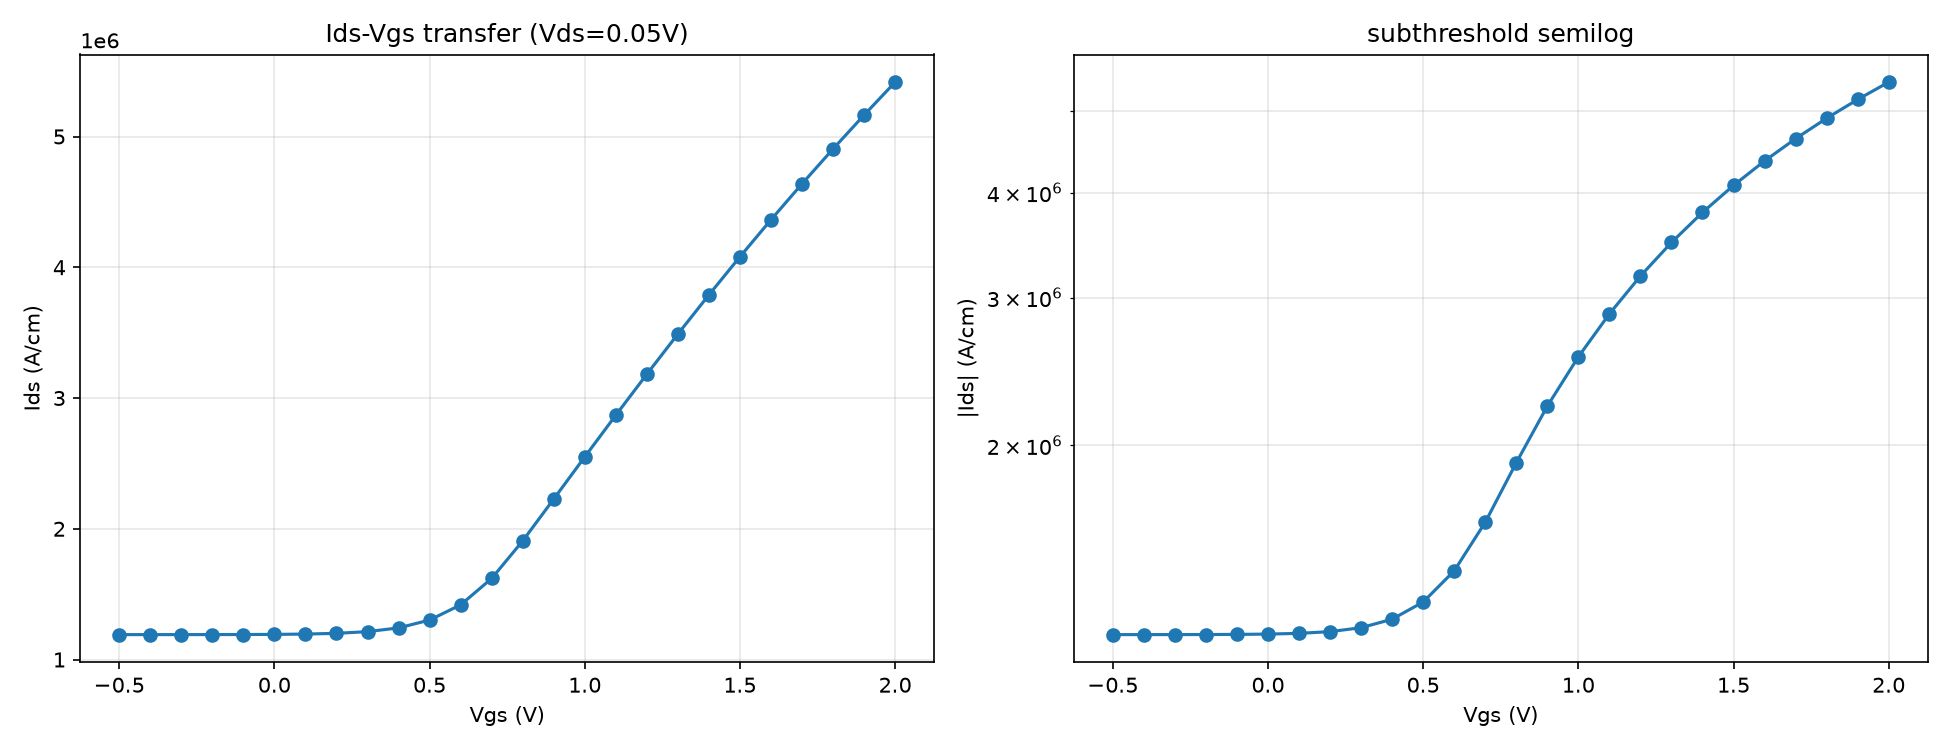
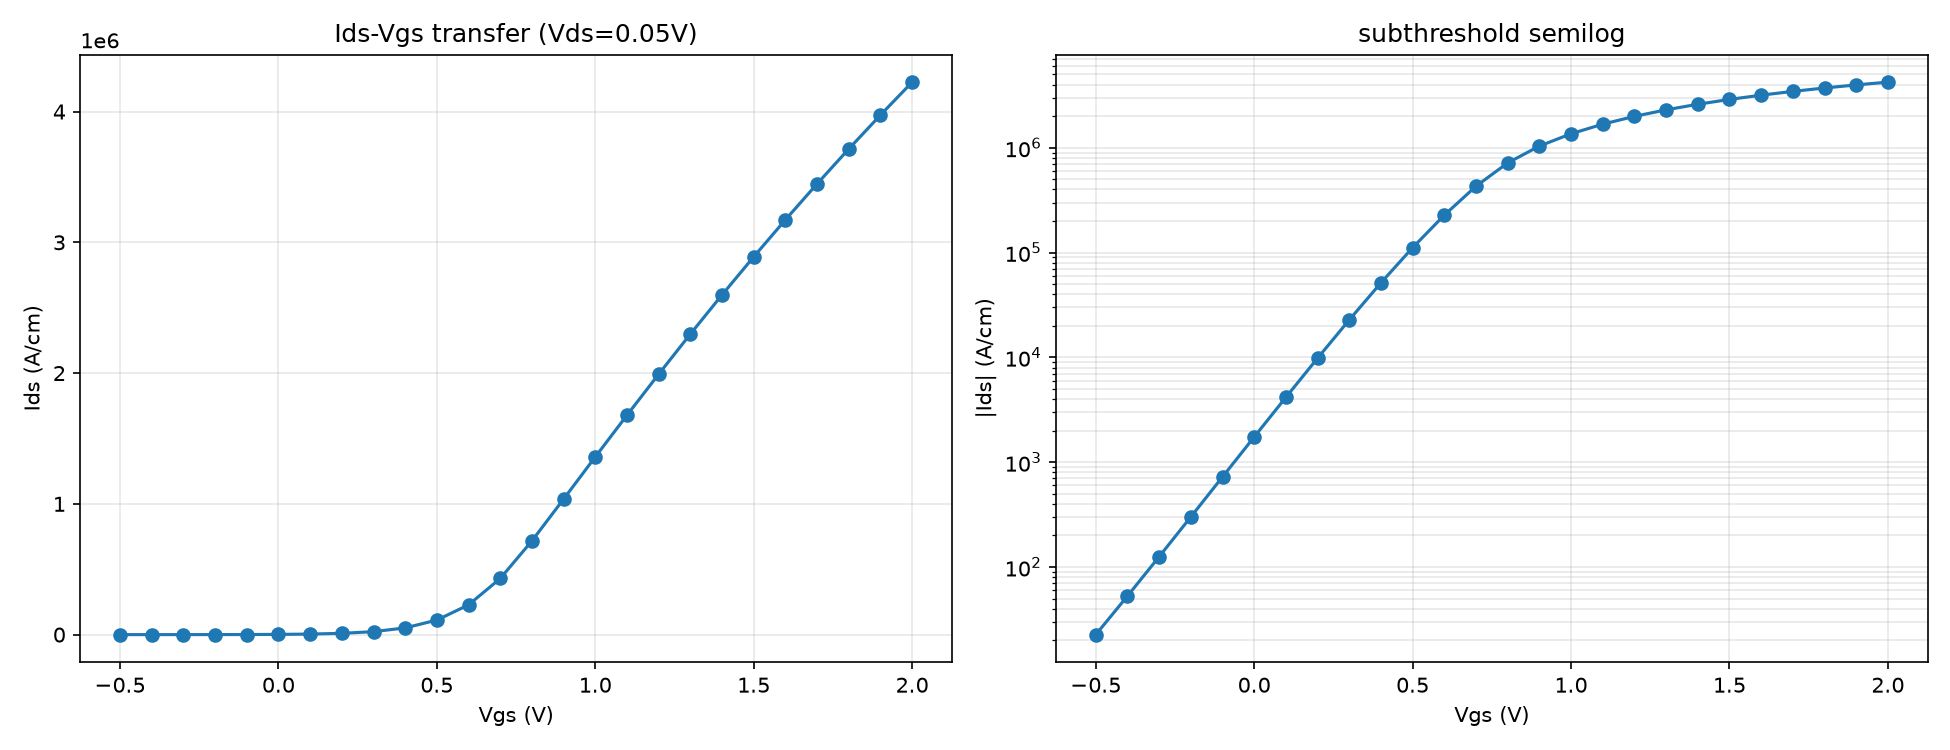
Fix flat MOSFET off-state current: exclude oxide-corner edge from terminal-current sum
Session 17 found the flat Ids-Vgs off-state floor came from one spurious
mesh edge (drain contact -> the oxide node at the drain/gate-oxide corner,
whose phin/phip are an arbitrary pinned-to-0 placeholder), but its fix
(masking every insulator-touching edge in the Newton solver's own
residual/Jacobian) broke near-threshold convergence across the whole
sweep and was reverted.

The spurious edge's residual/Jacobian contribution was always inert -
both endpoints' rows get overwritten by Dirichlet/oxide-pin regardless -
so it only actually mattered in solver2d/current.py's post-processing
terminal-current sum. Excluding it there only (not touching the solver)
fixes the bug with zero effect on Newton convergence: the shipped
Ids-Vgs sweep still converges in ~81s (unchanged), and the off-state
floor is now a clean exponential subthreshold falloff instead of flat.

diff --git a/solver2d/current.py b/solver2d/current.py
@@ -46,21 +46,31 @@ def contact_current(mesh, mat, result, contact_name):
     mu_n_node, mu_p_node = _mesh_mobility_nodal(mesh, mat)
     mu_n_e = 0.5 * (mu_n_node[ii] + mu_n_node[jj])
     mu_p_e = 0.5 * (mu_p_node[ii] + mu_p_node[jj])
-    # 2026-09-13: the semiconductor/insulator no-flux edge mask
-    # (newton_solver_qf_2d.py::_semiconductor_edge_mask, still defined
-    # there for a later pass) is deliberately NOT applied here for now -
-    # kept consistent with the solver's own residual assembly, which backed
-    # this out too (see the matching comment there) because it made
-    # near-threshold/off-state convergence much slower across the whole
-    # sweep. Known consequence: the flat off-state "leakage" floor from the
-    # contact/oxide corner edge is back - tracked as a deferred issue, to
-    # be solved in the 1D diode first per the user's own direction.
     Jn_e = -Q * mu_n_e * n_avg * (phin[jj] - phin[ii]) / edge_len
     Jp_e = -Q * mu_p_e * p_avg * (phip[jj] - phip[ii]) / edge_len
     I_e = (Jn_e + Jp_e) * mesh.facet_length  # A/cm, direction i -> j
 
-    i_is_contact = is_contact[ii] & ~is_contact[jj]
-    j_is_contact = is_contact[jj] & ~is_contact[ii]
+    # 2026-09-13: exclude any edge whose non-contact endpoint is an
+    # insulator node from this sum. Those edges' phin/phip on the oxide
+    # side are an arbitrary pinned placeholder (0), not a real potential
+    # (see newton_solver_qf_2d.py's is_oxide_free comments) - a contact
+    # sitting right at an oxide/mesa corner (as this project's first
+    # MOSFET geometry does) picks up one such edge whose "current" is
+    # driven entirely by that placeholder and the contact's own fixed
+    # bias, completely independent of Vgs. That single edge was found to
+    # account for ~99.995% of the entire off-state terminal current,
+    # flooring what should be an exponentially falling subthreshold
+    # diffusion current. This exclusion only changes THIS post-processing
+    # sum, not the Newton solver's own residual/Jacobian (those rows are
+    # already overwritten by the Dirichlet/oxide-pin logic regardless of
+    # this edge, so masking it here has no effect on convergence) - unlike
+    # the broader _semiconductor_edge_mask() masking tried and reverted in
+    # the solver itself, which changed real channel-surface nodes' own
+    # continuity equations and made Newton convergence far worse.
+    is_insulator = mesh.is_insulator if mesh.is_insulator is not None \
+        else np.zeros(N, dtype=bool)
+    i_is_contact = is_contact[ii] & ~is_contact[jj] & ~is_insulator[jj]
+    j_is_contact = is_contact[jj] & ~is_contact[ii] & ~is_insulator[ii]
     return float(np.sum(I_e[i_is_contact]) - np.sum(I_e[j_is_contact]))
 
 

diff --git a/DEVELOPMENT_LOG.md b/DEVELOPMENT_LOG.md
@@ -3322,3 +3322,56 @@ deferred to a 1D-diode prototyping pass first, per explicit user
 direction); DIBL, subthreshold-swing degradation, and other short-channel
 effects the user's eventual goal is to study (blocked on the above two
 items landing first).
+
+## 28. Session 18: the MOSFET flat-off-state bug actually fixed - a much
+narrower fix than the one backed out in session 17
+
+Session 17 root-caused the flat Ids-Vgs off-state floor to a single
+spurious mesh edge (drain contact -> the oxide node at the corner where
+the drain meets the gate-oxide/mesa wall, whose phin/phip are an
+arbitrary pinned-to-0 placeholder) but its fix attempt
+(`_semiconductor_edge_mask()`, excluding every edge with an insulator
+endpoint from the Newton solver's own residual/Jacobian assembly) made
+near-threshold convergence far worse across the whole sweep and was
+reverted, deferred pending a 1D-diode prototyping pass on the diffusion/
+leakage current model itself (since done - see the extreme-doping
+convergence session - and confirmed to already be intrinsic to this
+project's quasi-Fermi Newton formulation everywhere, 1D or 2D).
+
+Re-examining with that formulation confirmed working: the diffusion
+current itself was never missing from the 2D MOSFET solve - the
+quasi-Fermi `Jn = -q*mu_n*n*grad(phin)` flux already carries it on every
+edge, channel included. The bug is narrower than session 17's fix
+targeted. The spurious edge's contribution to the Newton residual/
+Jacobian is already inert: BOTH its endpoints' rows get overwritten
+regardless (the contact node by its Dirichlet BC, the oxide node by the
+`is_oxide_free` pin) - masking it in the solver's own equations, as
+session 17 tried, therefore couldn't fix anything there and instead broke
+something unrelated: it also silently changed real, non-contact
+channel-surface nodes' own continuity equations (removing what had been
+an accidental, convergence-stabilizing leak-to-zero sink term at every
+Si/SiO2 interface node under the gate), which is what actually caused the
+broad near-threshold slowdown - a much bigger change than the one corner
+edge it was meant to target.
+
+The spurious edge only actually matters in ONE place: `solver2d/
+current.py::contact_current()`'s post-processing terminal-current sum,
+which independently walks every edge touching a contact node and would
+of course still pick up this one. Fixed there only - excluded any
+contact-adjacent edge whose OTHER endpoint is an insulator node from the
+sum - touching zero Newton solver code. Verified on the shipped
+`configs/input_mosfet_2d.yaml` Ids-Vgs transfer sweep: all 26 points still
+converge (~81s total, matching session 17's ~80s baseline exactly - zero
+convergence impact, as expected since the residual/Jacobian are
+untouched), and the off-state floor is now a clean exponential
+(consistently ~2.3-2.4x per 100mV of Vgs, i.e. roughly a decade per
+~250mV) from Vgs=-0.5V up through threshold, rolling over into the
+existing clean on-state curve above it - the real, previously-swamped
+diffusion-current subthreshold signature.
+
+Not done this session: reapplying any equivalent fix to the MOS
+capacitor's own current path (`main2d_mos_sweep.py`) if it turns out to
+share the same contact/oxide-corner geometry issue (not yet checked, and
+that example is deliberately Poisson-only/no channel current by design,
+so may not be affected); the deferred velocity-saturation Ids-Vds work;
+DIBL/short-channel effects.
